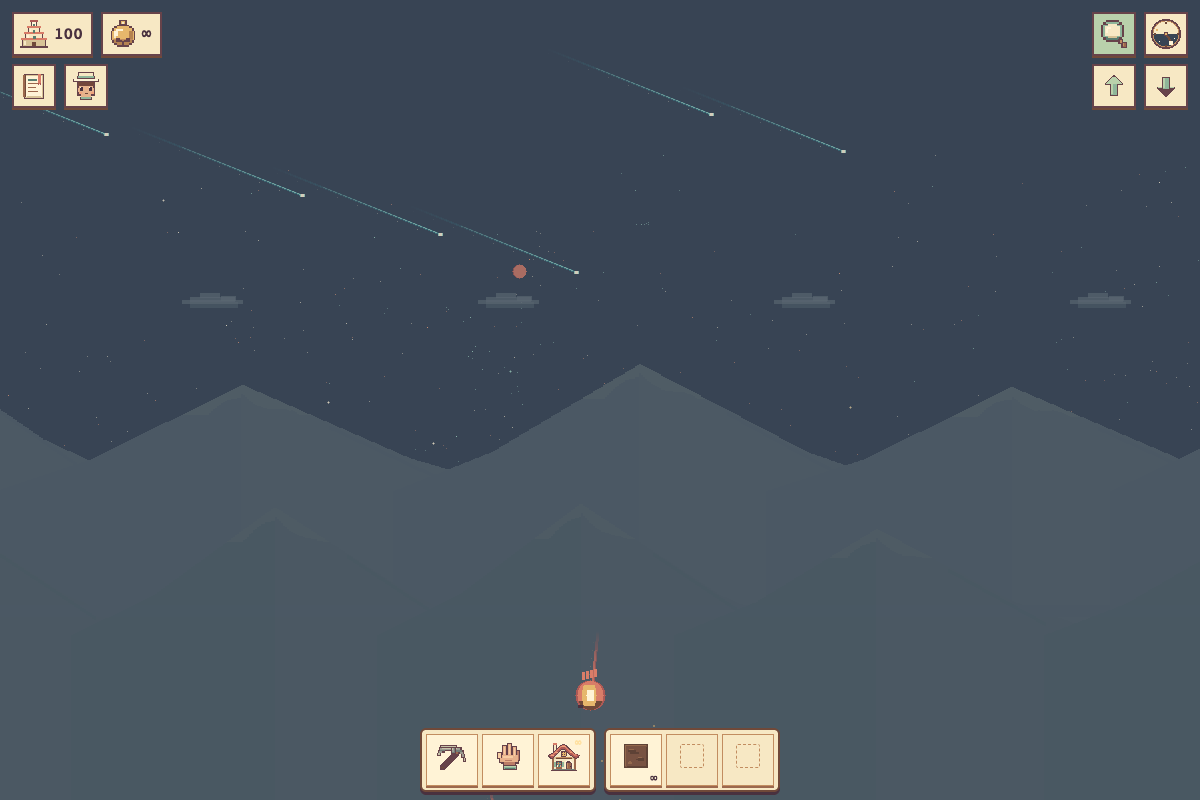
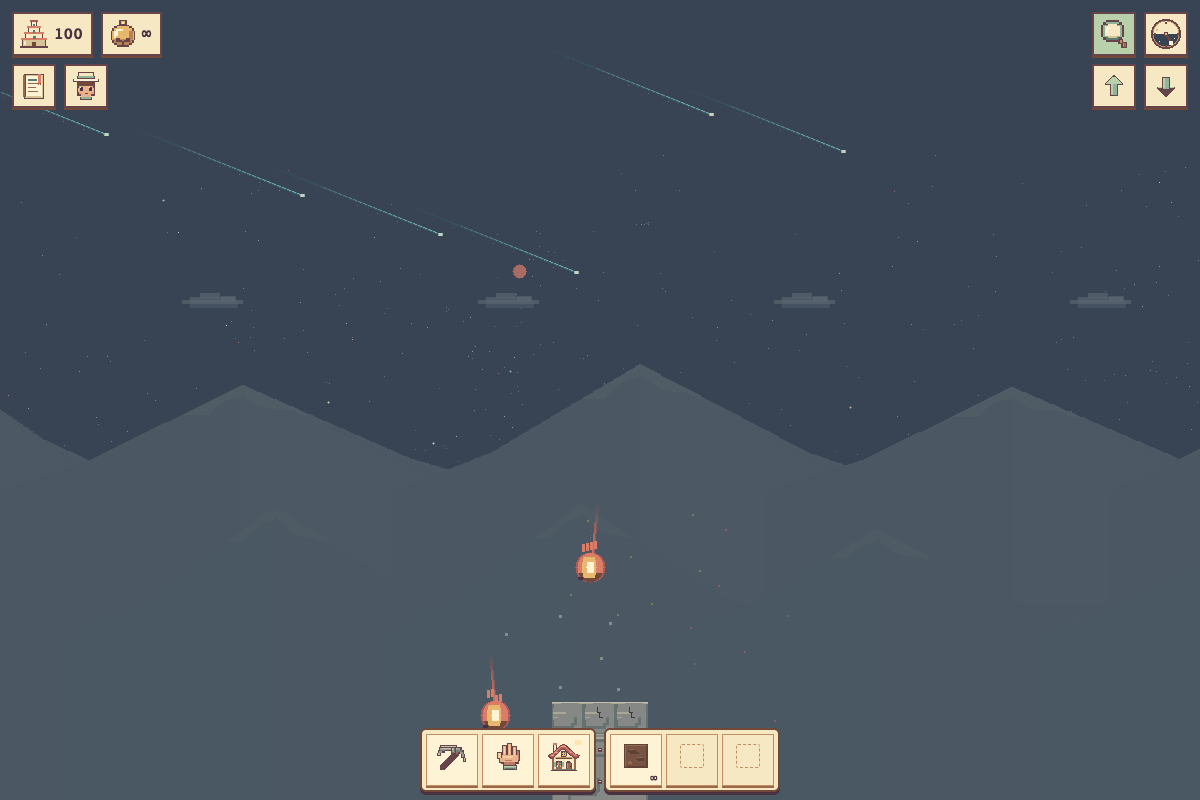
Show progressive strong-block fractures and apply explosion core falloff

Changed region(s): [[0.4625, 0.8125, 0.555, 1.0], [0.4625, 0.6875, 0.5242, 0.7188], [0.4008, 0.8438, 0.4317, 0.9062]]

diff --git a/dist/buttonwood/meteor-art.js b/dist/buttonwood/meteor-art.js
@@ -1,6 +1,6 @@
 // ART-BIBLE §§3–4, 8, 10: stepped cool trails, warm cores, no blur or flashes.
 (()=>{'use strict';const A=ButtonwoodArt,P=A.palette;
 A.paintMeteor=function(g,x,y,age,seed,hot=false,opacity=1,direction=1,size=4){const tail=hot?65:46+seed%35,slope=hot?10:.40;const r=(xx,yy,w,h,k,a=1)=>{g.globalAlpha=a*opacity;g.fillStyle=P[k];g.fillRect(Math.round(xx),Math.round(yy),w,h)};g.save();g.imageSmoothingEnabled=false;for(let i=tail;i>0;i--){const a=(1-i/tail)*.8;r(x-i/slope*direction,y-i,3,2,hot?'coralShade':'waterShade',a);if(i<tail*.7)r(x-i/slope*direction,y-i,2,1,hot?'coral':'waterLight',a);if(i%8===0)r(x-i/slope*direction-3,y-i+3,1,1,hot?'gold':'creamLight',a*.55)}if(hot){const radius=size===6?15:9;for(let yy=-radius;yy<=radius;yy++){const span=Math.floor(Math.sqrt(radius*radius-yy*yy));r(x-span,y+yy,span*2+1,1,'coralShade');if(span>2)r(x-span+2,y+yy,span*2-3,1,yy>radius*.35?'woodShade':'coral');if(Math.abs(yy)<radius*.7&&span>4)r(x-span*.55,y+yy,Math.max(1,Math.floor(span)),1,'gold');if(Math.abs(yy)<radius*.35)r(x-span*.25,y+yy,Math.max(1,Math.floor(span*.55)),1,'creamLight')}for(let i=0;i<4;i++)r(x+(i-2)*4,y-radius-5-(seed+i)%7,3,8,'coral');r(x-radius+3,y+radius-5,5,3,'ink')}else{r(x-2,y-1,5,3,'waterLight');r(x-1,y-1,3,3,'creamLight');r(x,y,1,1,'creamLight')}g.restore()};
-A.paintMeteorImpact=function(g,x,y,age,seed,size=4){g.save();if(size&&age<360){const quiet=typeof matchMedia==='function'&&matchMedia('(prefers-reduced-motion: reduce)').matches,radius=size*16,progress=quiet?1:Math.min(1,age/140+.25),tiles=size;g.globalAlpha=Math.max(0,(1-age/420)*.72);for(let yy=0;yy<tiles;yy++)for(let xx=0;xx<tiles;xx++){const dx=xx+.5-tiles/2,dy=yy+.5-tiles/2;if(dx*dx+dy*dy>(tiles/2)**2)continue;const px=Math.round(x+(xx-tiles/2)*32*progress),py=Math.round(y+(yy-tiles/2)*32*progress),w=Math.ceil(32*progress);g.fillStyle=P[(xx+yy)%3===0?'gold':'coral'];g.fillRect(px,py,w,w);g.fillStyle=P.creamLight;g.fillRect(px+2,py+2,Math.max(1,w-4),Math.max(1,w-4));}g.globalAlpha=Math.max(0,1-age/360);g.fillStyle=P.gold;g.fillRect(Math.round(x-radius*progress),Math.round(y-2),Math.round(radius*progress*2),3)}for(let i=0;i<28;i++){const angle=(i*2.4+seed)*Math.PI/5,dist=age*.08*(1+i%3),xx=Math.round(x+Math.cos(angle)*dist),yy=Math.round(y+Math.sin(angle)*dist+age*age*.000035);g.globalAlpha=Math.max(0,1-age/900);g.fillStyle=P[i%4===0?'creamLight':i%4===1?'gold':i%4===2?'coral':'woodShade'];g.fillRect(xx,yy,i%4===0?3:2,i%4===0?3:2)}g.restore()};
+A.paintMeteorImpact=function(g,x,y,age,seed,size=4){g.save();if(size&&age<360){const quiet=typeof matchMedia==='function'&&matchMedia('(prefers-reduced-motion: reduce)').matches,radius=size*16,progress=quiet?1:Math.min(1,age/140+.25),tiles=size;g.globalAlpha=Math.max(0,(1-age/420)*.72);for(let yy=0;yy<tiles;yy++)for(let xx=0;xx<tiles;xx++){const dx=xx+.5-tiles/2,dy=yy+.5-tiles/2;if(dx*dx+dy*dy>(tiles/2)**2)continue;const px=Math.round(x+(xx-tiles/2)*32*progress),py=Math.round(y+(yy-tiles/2)*32*progress),w=Math.ceil(32*progress);const core=dx*dx+dy*dy<=(tiles/2-1)**2;g.fillStyle=P[core?'gold':'coralShade'];g.fillRect(px,py,w,w);g.fillStyle=P[core?'creamLight':'coral'];g.fillRect(px+2,py+2,Math.max(1,w-4),Math.max(1,w-4));}g.globalAlpha=Math.max(0,1-age/360);g.fillStyle=P.gold;g.fillRect(Math.round(x-radius*progress),Math.round(y-2),Math.round(radius*progress*2),3)}for(let i=0;i<28;i++){const angle=(i*2.4+seed)*Math.PI/5,dist=age*.08*(1+i%3),xx=Math.round(x+Math.cos(angle)*dist),yy=Math.round(y+Math.sin(angle)*dist+age*age*.000035);g.globalAlpha=Math.max(0,1-age/900);g.fillStyle=P[i%4===0?'creamLight':i%4===1?'gold':i%4===2?'coral':'woodShade'];g.fillRect(xx,yy,i%4===0?3:2,i%4===0?3:2)}g.restore()};
 A.paintMeteorShower=function(g,o,rect){const e=A.meteorSkyState;if(!e?.active)return;const seconds=e.elapsed/1000,width=o.width,ground=o.ground,camY=o.camY||0,span=Math.max(100,ground+camY);g.save();for(let i=0;i<270;i++){const born=2+i*.32+(i*37%13)/13,age=seconds-born,duration=1.6+(i*19%10)/10;if(age<0||age>duration)continue;const p=age/duration,x=width*((i*79%89)/100)+p*(220+i%140),y=Math.min(o.height,span)*(.12+(i*41%49)/100)+p*110+camY*.008;if(y<0||y>=ground)continue;g.save();g.beginPath();g.rect(0,0,width,Math.max(0,Math.min(o.height,ground)));g.clip();A.paintMeteor(g,x,y,age,i+e.seed,false,Math.min(1,p/.12,(1-p)/.25));g.restore()}g.restore()};
 })();

diff --git a/tower-of-babel/buttonwood/meteor-art.js b/tower-of-babel/buttonwood/meteor-art.js
@@ -1,6 +1,6 @@
 // ART-BIBLE §§3–4, 8, 10: stepped cool trails, warm cores, no blur or flashes.
 (()=>{'use strict';const A=ButtonwoodArt,P=A.palette;
 A.paintMeteor=function(g,x,y,age,seed,hot=false,opacity=1,direction=1,size=4){const tail=hot?65:46+seed%35,slope=hot?10:.40;const r=(xx,yy,w,h,k,a=1)=>{g.globalAlpha=a*opacity;g.fillStyle=P[k];g.fillRect(Math.round(xx),Math.round(yy),w,h)};g.save();g.imageSmoothingEnabled=false;for(let i=tail;i>0;i--){const a=(1-i/tail)*.8;r(x-i/slope*direction,y-i,3,2,hot?'coralShade':'waterShade',a);if(i<tail*.7)r(x-i/slope*direction,y-i,2,1,hot?'coral':'waterLight',a);if(i%8===0)r(x-i/slope*direction-3,y-i+3,1,1,hot?'gold':'creamLight',a*.55)}if(hot){const radius=size===6?15:9;for(let yy=-radius;yy<=radius;yy++){const span=Math.floor(Math.sqrt(radius*radius-yy*yy));r(x-span,y+yy,span*2+1,1,'coralShade');if(span>2)r(x-span+2,y+yy,span*2-3,1,yy>radius*.35?'woodShade':'coral');if(Math.abs(yy)<radius*.7&&span>4)r(x-span*.55,y+yy,Math.max(1,Math.floor(span)),1,'gold');if(Math.abs(yy)<radius*.35)r(x-span*.25,y+yy,Math.max(1,Math.floor(span*.55)),1,'creamLight')}for(let i=0;i<4;i++)r(x+(i-2)*4,y-radius-5-(seed+i)%7,3,8,'coral');r(x-radius+3,y+radius-5,5,3,'ink')}else{r(x-2,y-1,5,3,'waterLight');r(x-1,y-1,3,3,'creamLight');r(x,y,1,1,'creamLight')}g.restore()};
-A.paintMeteorImpact=function(g,x,y,age,seed,size=4){g.save();if(size&&age<360){const quiet=typeof matchMedia==='function'&&matchMedia('(prefers-reduced-motion: reduce)').matches,radius=size*16,progress=quiet?1:Math.min(1,age/140+.25),tiles=size;g.globalAlpha=Math.max(0,(1-age/420)*.72);for(let yy=0;yy<tiles;yy++)for(let xx=0;xx<tiles;xx++){const dx=xx+.5-tiles/2,dy=yy+.5-tiles/2;if(dx*dx+dy*dy>(tiles/2)**2)continue;const px=Math.round(x+(xx-tiles/2)*32*progress),py=Math.round(y+(yy-tiles/2)*32*progress),w=Math.ceil(32*progress);g.fillStyle=P[(xx+yy)%3===0?'gold':'coral'];g.fillRect(px,py,w,w);g.fillStyle=P.creamLight;g.fillRect(px+2,py+2,Math.max(1,w-4),Math.max(1,w-4));}g.globalAlpha=Math.max(0,1-age/360);g.fillStyle=P.gold;g.fillRect(Math.round(x-radius*progress),Math.round(y-2),Math.round(radius*progress*2),3)}for(let i=0;i<28;i++){const angle=(i*2.4+seed)*Math.PI/5,dist=age*.08*(1+i%3),xx=Math.round(x+Math.cos(angle)*dist),yy=Math.round(y+Math.sin(angle)*dist+age*age*.000035);g.globalAlpha=Math.max(0,1-age/900);g.fillStyle=P[i%4===0?'creamLight':i%4===1?'gold':i%4===2?'coral':'woodShade'];g.fillRect(xx,yy,i%4===0?3:2,i%4===0?3:2)}g.restore()};
+A.paintMeteorImpact=function(g,x,y,age,seed,size=4){g.save();if(size&&age<360){const quiet=typeof matchMedia==='function'&&matchMedia('(prefers-reduced-motion: reduce)').matches,radius=size*16,progress=quiet?1:Math.min(1,age/140+.25),tiles=size;g.globalAlpha=Math.max(0,(1-age/420)*.72);for(let yy=0;yy<tiles;yy++)for(let xx=0;xx<tiles;xx++){const dx=xx+.5-tiles/2,dy=yy+.5-tiles/2;if(dx*dx+dy*dy>(tiles/2)**2)continue;const px=Math.round(x+(xx-tiles/2)*32*progress),py=Math.round(y+(yy-tiles/2)*32*progress),w=Math.ceil(32*progress);const core=dx*dx+dy*dy<=(tiles/2-1)**2;g.fillStyle=P[core?'gold':'coralShade'];g.fillRect(px,py,w,w);g.fillStyle=P[core?'creamLight':'coral'];g.fillRect(px+2,py+2,Math.max(1,w-4),Math.max(1,w-4));}g.globalAlpha=Math.max(0,1-age/360);g.fillStyle=P.gold;g.fillRect(Math.round(x-radius*progress),Math.round(y-2),Math.round(radius*progress*2),3)}for(let i=0;i<28;i++){const angle=(i*2.4+seed)*Math.PI/5,dist=age*.08*(1+i%3),xx=Math.round(x+Math.cos(angle)*dist),yy=Math.round(y+Math.sin(angle)*dist+age*age*.000035);g.globalAlpha=Math.max(0,1-age/900);g.fillStyle=P[i%4===0?'creamLight':i%4===1?'gold':i%4===2?'coral':'woodShade'];g.fillRect(xx,yy,i%4===0?3:2,i%4===0?3:2)}g.restore()};
 A.paintMeteorShower=function(g,o,rect){const e=A.meteorSkyState;if(!e?.active)return;const seconds=e.elapsed/1000,width=o.width,ground=o.ground,camY=o.camY||0,span=Math.max(100,ground+camY);g.save();for(let i=0;i<270;i++){const born=2+i*.32+(i*37%13)/13,age=seconds-born,duration=1.6+(i*19%10)/10;if(age<0||age>duration)continue;const p=age/duration,x=width*((i*79%89)/100)+p*(220+i%140),y=Math.min(o.height,span)*(.12+(i*41%49)/100)+p*110+camY*.008;if(y<0||y>=ground)continue;g.save();g.beginPath();g.rect(0,0,width,Math.max(0,Math.min(o.height,ground)));g.clip();A.paintMeteor(g,x,y,age,i+e.seed,false,Math.min(1,p/.12,(1-p)/.25));g.restore()}g.restore()};
 })();

diff --git a/dist/index.html b/dist/index.html
@@ -152,7 +152,7 @@
 </div>
 <script src="https://cdn.jsdelivr.net/npm/matter-js@0.20.0/build/matter.min.js"></script>
 <script src="audio.js?v=83"></script>
-<script src="game-v28.js?v=84"></script>
+<script src="game-v28.js?v=85"></script>
 <script>
 for(const [id,label,fn] of [['musicToggle','MUSIC', 'setMusicEnabled'],['sfxToggle','SFX','setSfxEnabled']])document.getElementById(id).addEventListener('click',async()=>{await window.SkyAudio?.ensure();const on=window.SkyAudio?.[fn](!document.getElementById(id).matches('[aria-pressed=true]'));const b=document.getElementById(id);b.setAttribute('aria-pressed',on);b.textContent=(label==='MUSIC'?'♫ ':'♪ ')+label+' '+(on?'ON':'OFF')});
 </script>

diff --git a/tower-of-babel/index.html b/tower-of-babel/index.html
@@ -152,7 +152,7 @@
 </div>
 <script src="https://cdn.jsdelivr.net/npm/matter-js@0.20.0/build/matter.min.js"></script>
 <script src="audio.js?v=83"></script>
-<script src="game-v28.js?v=84"></script>
+<script src="game-v28.js?v=85"></script>
 <script>
 for(const [id,label,fn] of [['musicToggle','MUSIC', 'setMusicEnabled'],['sfxToggle','SFX','setSfxEnabled']])document.getElementById(id).addEventListener('click',async()=>{await window.SkyAudio?.ensure();const on=window.SkyAudio?.[fn](!document.getElementById(id).matches('[aria-pressed=true]'));const b=document.getElementById(id);b.setAttribute('aria-pressed',on);b.textContent=(label==='MUSIC'?'♫ ':'♪ ')+label+' '+(on?'ON':'OFF')});
 </script>

diff --git a/dist/game-v28.js b/dist/game-v28.js
@@ -127,7 +127,7 @@ async function read(url){
     tail=tail.replace(marker,(await read('game-v80-winter-inspection.txt?v=80'))+'\n'+marker);
     tail=tail.replace(marker,(await read('game-v81-moonfire.txt?v=81'))+'\n'+marker);
     tail=tail.replace(marker,(await read('game-v82-moonfire-demo.txt?v=82'))+'\n'+marker);
-    tail=tail.replace(marker,(await read('game-v83-brimstone.txt?v=84'))+'\n'+marker);
+    tail=tail.replace(marker,(await read('game-v83-brimstone.txt?v=85'))+'\n'+marker);
     const src=core+'\n});\n'+liquid+'\n'+tail;
     (0,eval)(src);
   }catch(e){

diff --git a/tower-of-babel/game-v28.js b/tower-of-babel/game-v28.js
@@ -127,7 +127,7 @@ async function read(url){
     tail=tail.replace(marker,(await read('game-v80-winter-inspection.txt?v=80'))+'\n'+marker);
     tail=tail.replace(marker,(await read('game-v81-moonfire.txt?v=81'))+'\n'+marker);
     tail=tail.replace(marker,(await read('game-v82-moonfire-demo.txt?v=82'))+'\n'+marker);
-    tail=tail.replace(marker,(await read('game-v83-brimstone.txt?v=84'))+'\n'+marker);
+    tail=tail.replace(marker,(await read('game-v83-brimstone.txt?v=85'))+'\n'+marker);
     const src=core+'\n});\n'+liquid+'\n'+tail;
     (0,eval)(src);
   }catch(e){

diff --git a/dist/buttonwood/qa/brimstone/README.md b/dist/buttonwood/qa/brimstone/README.md
@@ -48,3 +48,26 @@ on the next strike. Obsidian survives both strikes; rotated deepslate survives;
 fragment shape, wear, nails and material survive save/restore. Existing actor
 deaths, pause, event eligibility and demo save isolation remain covered.
 The updated barrage screenshot shows the less destructive actual survival scene.
+
+## Visible wear and explosion falloff — v85
+
+Bible §§3–5,10; approved native material tiles remain the base artwork. The native
+terrain renderer now paints five saved-durability stages for obsidian/deepslate:
+contrasting connected fissures, exposed edges, branching and chipped faces.
+Sprites retain their grid footprint; the collision shape changes only when a
+real piece is destroyed. [Wear stages](wear-stages.png): obsidian above, deepslate
+below, increasing damage from left to right. Checked at native world pixel scale
+and enlarged for inspection; camera zoom and debris rotation apply uniformly.
+
+All materials take two damage in the inner core and one in the outer rim; nail
+armor applies afterward. A piece intersecting several cells takes the highest
+zone value once. Four-cell blasts have four core/eight rim cells; six-cell blasts
+have twelve core/twenty rim cells. The painted blast uses cream/gold in its core
+and darker coral in its rim, with identical radius tests.
+
+Browser checks verify exact 2/1/0 cell wear on an unarmored 5×5 block, armor
+consumption, surviving rim stone, strong-material survival, rotated intersections,
+saves, live demo, pause and eligibility. Pixel samples from the actual native
+renderer confirm strictly increasing fracture coverage over five wear stages
+and identical pixels when redrawn. Earlier v83/v84 damage descriptions above
+are historical; this revision supersedes their uniform damage rules.

diff --git a/tower-of-babel/buttonwood/qa/brimstone/README.md b/tower-of-babel/buttonwood/qa/brimstone/README.md
@@ -48,3 +48,26 @@ on the next strike. Obsidian survives both strikes; rotated deepslate survives;
 fragment shape, wear, nails and material survive save/restore. Existing actor
 deaths, pause, event eligibility and demo save isolation remain covered.
 The updated barrage screenshot shows the less destructive actual survival scene.
+
+## Visible wear and explosion falloff — v85
+
+Bible §§3–5,10; approved native material tiles remain the base artwork. The native
+terrain renderer now paints five saved-durability stages for obsidian/deepslate:
+contrasting connected fissures, exposed edges, branching and chipped faces.
+Sprites retain their grid footprint; the collision shape changes only when a
+real piece is destroyed. [Wear stages](wear-stages.png): obsidian above, deepslate
+below, increasing damage from left to right. Checked at native world pixel scale
+and enlarged for inspection; camera zoom and debris rotation apply uniformly.
+
+All materials take two damage in the inner core and one in the outer rim; nail
+armor applies afterward. A piece intersecting several cells takes the highest
+zone value once. Four-cell blasts have four core/eight rim cells; six-cell blasts
+have twelve core/twenty rim cells. The painted blast uses cream/gold in its core
+and darker coral in its rim, with identical radius tests.
+
+Browser checks verify exact 2/1/0 cell wear on an unarmored 5×5 block, armor
+consumption, surviving rim stone, strong-material survival, rotated intersections,
+saves, live demo, pause and eligibility. Pixel samples from the actual native
+renderer confirm strictly increasing fracture coverage over five wear stages
+and identical pixels when redrawn. Earlier v83/v84 damage descriptions above
+are historical; this revision supersedes their uniform damage rules.

diff --git a/dist/buttonwood/ART-BIBLE.md b/dist/buttonwood/ART-BIBLE.md
@@ -1322,12 +1322,17 @@ This supersedes v81's light meteor damage and heat-proof obsidian. A standard
 blast uses the rounded four-cell mask `0xx0 / xxxx / xxxx / 0xx0`; larger balls
 use six-cell circles. Visual footprints snap to the same native grid as damage.
 Impacts fracture large placed blocks into cell-sized material pieces. Only pieces
-intersecting the rounded blast footprint wear down: dirt, wood and stone take two
-points; deepslate and obsidian take one. Each piece is hit once per explosion,
+intersecting the rounded blast footprint wear down: the inner core deals two
+points and the outer rim one, for every material. Stronger blocks keep their
+higher material durability. Each piece is hit once per explosion,
 regardless of overlapping blast cells. Unhit pieces retain durability and actual
 nails. A nail supplies one armor point, is consumed first, and pins on that
 damaged piece break. The 450ms hail cadence leaves time to read progressive
-cracks, missing cells and debris rather than whole-block disappearance. Surviving placed blocks become movable, with mass-sensitive
+cracks, missing cells and debris rather than whole-block disappearance.
+Obsidian and deepslate show five persistent wear stages: connected dark splits,
+bright exposed edges, broader chipped faces and branching fractures. Marks follow
+saved hits, retain native pixel scale, and never imply a removed collision cell.
+Explosion cores use cream/gold; their lower-damage rim uses darker coral. Surviving placed blocks become movable, with mass-sensitive
 outward/upward impulses and rotation. Every other source of positive block
 damage also breaks its nail before reducing material durability.
 

diff --git a/tower-of-babel/buttonwood/ART-BIBLE.md b/tower-of-babel/buttonwood/ART-BIBLE.md
@@ -1322,12 +1322,17 @@ This supersedes v81's light meteor damage and heat-proof obsidian. A standard
 blast uses the rounded four-cell mask `0xx0 / xxxx / xxxx / 0xx0`; larger balls
 use six-cell circles. Visual footprints snap to the same native grid as damage.
 Impacts fracture large placed blocks into cell-sized material pieces. Only pieces
-intersecting the rounded blast footprint wear down: dirt, wood and stone take two
-points; deepslate and obsidian take one. Each piece is hit once per explosion,
+intersecting the rounded blast footprint wear down: the inner core deals two
+points and the outer rim one, for every material. Stronger blocks keep their
+higher material durability. Each piece is hit once per explosion,
 regardless of overlapping blast cells. Unhit pieces retain durability and actual
 nails. A nail supplies one armor point, is consumed first, and pins on that
 damaged piece break. The 450ms hail cadence leaves time to read progressive
-cracks, missing cells and debris rather than whole-block disappearance. Surviving placed blocks become movable, with mass-sensitive
+cracks, missing cells and debris rather than whole-block disappearance.
+Obsidian and deepslate show five persistent wear stages: connected dark splits,
+bright exposed edges, broader chipped faces and branching fractures. Marks follow
+saved hits, retain native pixel scale, and never imply a removed collision cell.
+Explosion cores use cream/gold; their lower-damage rim uses darker coral. Surviving placed blocks become movable, with mass-sensitive
 outward/upward impulses and rotation. Every other source of positive block
 damage also breaks its nail before reducing material durability.
 

diff --git a/dist/buttonwood/ART-GUIDE.md b/dist/buttonwood/ART-GUIDE.md
@@ -794,8 +794,12 @@ wild-sprite segment tests prevent tunneling. Each 4/6-cell rounded blast damages
 a body once, regardless of how many covered cells overlap it. Large placed blocks fracture into saved cell-sized bodies on contact; only
 intersected pieces take damage. Real polygon tests preserve rotated shapes.
 Actual nails, previous wear, material, total area cost and motion transfer.
-Untouched pieces keep nails and durability. Dirt/wood/stone take two points;
-obsidian/deepslate take one. Bedrock retains its existing immunity. Natural terrain
+Untouched pieces keep nails and durability. The inner radius (blast radius minus
+one cell) deals two damage, the outer rim one. Each piece takes only the maximum
+overlapping zone damage, never their sum; nail armor still absorbs the first
+point. Strong materials retain their higher durability. Native terrain rendering
+calls `paintStrongWearV85` for five persistent fracture/chip stages using named
+palette colors and one art pixel per world unit. Bedrock retains its immunity. Natural terrain
 stays anchored until destroyed, with removed-cell/save bookkeeping preserved.
 Dynamic debris uses real existing bodies, bounded velocities and angular impulse.
 No replacement collision envelopes or inventory rewards are introduced.

diff --git a/tower-of-babel/buttonwood/ART-GUIDE.md b/tower-of-babel/buttonwood/ART-GUIDE.md
@@ -794,8 +794,12 @@ wild-sprite segment tests prevent tunneling. Each 4/6-cell rounded blast damages
 a body once, regardless of how many covered cells overlap it. Large placed blocks fracture into saved cell-sized bodies on contact; only
 intersected pieces take damage. Real polygon tests preserve rotated shapes.
 Actual nails, previous wear, material, total area cost and motion transfer.
-Untouched pieces keep nails and durability. Dirt/wood/stone take two points;
-obsidian/deepslate take one. Bedrock retains its existing immunity. Natural terrain
+Untouched pieces keep nails and durability. The inner radius (blast radius minus
+one cell) deals two damage, the outer rim one. Each piece takes only the maximum
+overlapping zone damage, never their sum; nail armor still absorbs the first
+point. Strong materials retain their higher durability. Native terrain rendering
+calls `paintStrongWearV85` for five persistent fracture/chip stages using named
+palette colors and one art pixel per world unit. Bedrock retains its immunity. Natural terrain
 stays anchored until destroyed, with removed-cell/save bookkeeping preserved.
 Dynamic debris uses real existing bodies, bounded velocities and angular impulse.
 No replacement collision envelopes or inventory rewards are introduced.
